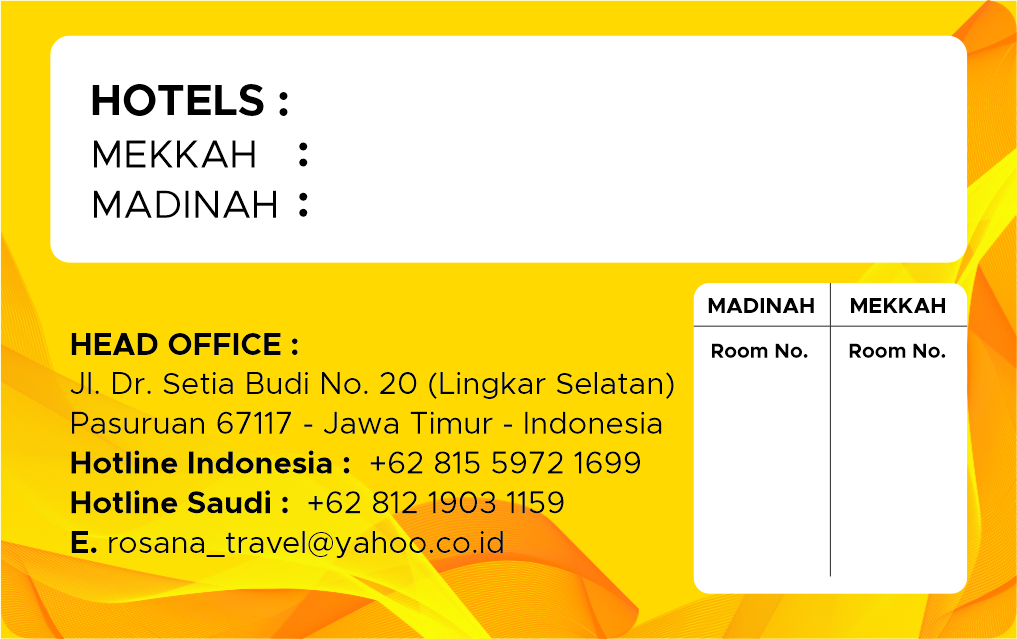
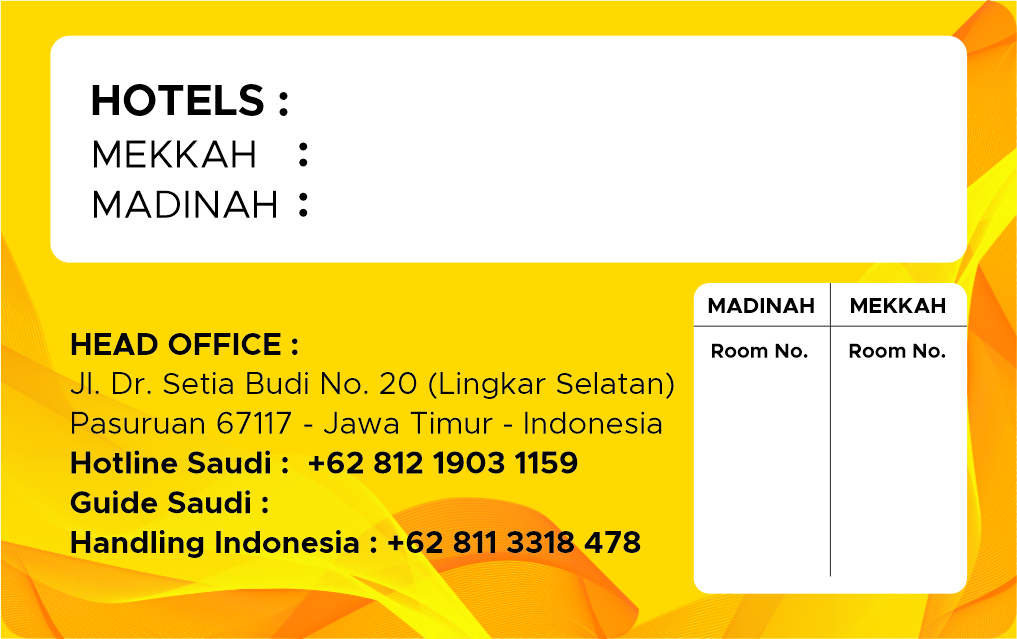
kartu

Changed region(s): [[0.061, 0.6839, 0.6401, 0.8028], [0.061, 0.8326, 0.6401, 0.892]]

diff --git a/application/views/paket/cetak_label_koper.php b/application/views/paket/cetak_label_koper.php
@@ -8,7 +8,6 @@
         align-items: center;
     }
 
-    .nama,
     .paspor,
     .alamat,
     .hotelmadinah,
@@ -19,13 +18,20 @@
     }
 
     .nama {
-        margin-top: -140px;
-        margin-left: 115px;
+        position: absolute;
+        margin-top: -150px;
+        margin-left: 102px;
     }
 
     .paspor {
-        margin-top: -120px;
+        margin-top: -108px;
         margin-left: 115px;
+    }
+
+    .nomorguide {
+        margin-top: -55px;
+        margin-left: 97px;
+        margin-bottom: 38px;
     }
 
     .alamat {
@@ -47,7 +53,7 @@
     }
 
     .foto {
-        margin-top: 80px;
+        margin-top: 70px;
         margin-left: -326px;
         width: 70px;
     }
@@ -65,6 +71,7 @@
 <div class="container-fluid" id="kartudepan">
     <div class="card" id="cardGroup_depan">
         <div class="card-body">
+
             <?php
             // Assuming $label is your array of data
             $numItems = count($label);
@@ -72,8 +79,8 @@
             $itemsPerColumn = 3; // Number of items per column
 
             for ($i = 0; $i < $numItems; $i += $itemsPerRow * $itemsPerColumn) {
-                echo '<div class="container a4-size */bg-dark" id="myTable' . $i . '">';
-                echo '<table style="margin: 0 auto;">';
+                echo '<div class="container a4-size bg-dark" id="myTable' . $i . '">';
+                echo '<table style="margin: 0 auto; table-layout: fixed;">';
 
                 for ($row = 0; $row < $itemsPerColumn; $row++) {
                     echo '<tr>';
@@ -83,15 +90,29 @@
 
                         if ($index < $numItems) {
                             echo '<td>';
-                            echo '<img src="' . base_url('assets/img/labelkoper/depan.jpg') . '" style="width: 350px;">';
-                            echo '<img src="' . (isset($label[$index]['jamaah_img']) ? base_url('assets/images/' . $label[$index]['jamaah_img']) : '') . '" class="foto">';
-                            echo '<h4 class="nama text-dark" style="font-weight:bold;font-size: medium">' . (isset($label[$index]['nama_jamaah']) ? $label[$index]['nama_jamaah'] : '') . '</h4>';
+                            // echo '<img src="' . base_url('assets/img/labelkoper/depan.jpg') . '" style="width: 350px;">';
+                            if ($paket[0]['travel'] == 'Rosana Travel') {
+                                echo '<img src="' . base_url('assets/img/labelkoper/depan.jpg') . '" style="width: 350px;">';
+                            } else {
+                                echo '<img src="' . base_url('assets/img/labelkoper/depannip.jpg') . '" style="width: 350px;">';
+                                # code...
+                            };
+                            echo '<img src="' . (isset($label[$index]['jamaah_img']) ? base_url('assets/images/' . $label[$index]['jamaah_img']) : '') . '" class="foto img-fluid"  style="border-radius: 10px; object-fit: cover; height: 100px; width: 70px">';
+                            echo '<div class="row nama">';
+                            echo '<div class="col-md-10">';
+                            echo '<h4 class="text-dark" style="font-weight:bold;font-size: medium; word-wrap: break-word;width: fit-content;">' . (isset($label[$index]['nama_jamaah']) ? $label[$index]['nama_jamaah'] : '') . '</h4>';
+                            echo '</div>';
+                            echo '</div>';
                             echo '<h5 class="paspor text-dark" style="font-weight:normal;font-size: medium">No. Paspor &nbsp;<strong>' . (isset($label[$index]['nomor_paspor']) ? $label[$index]['nomor_paspor'] : '') . '</strong></h5>';
-                            echo '<p class="alamat text-dark" style="font-weight:normal;font-size: small">Jl. Dr. Setia Budi No. 20 <br>Pasuruan City - Jawa Timur <br>Indonesia</p>';
                             echo '</td>';
                         } else {
                             echo '<td>';
-                            echo '<img src="' . base_url('assets/img/labelkoper/depan.jpg') . '" style="width: 350px;">';
+                            if ($paket[0]['travel'] == 'Rosana Travel') {
+                                echo '<img src="' . base_url('assets/img/labelkoper/depan.jpg') . '" style="width: 350px;">';
+                            } else {
+                                echo '<img src="' . base_url('assets/img/labelkoper/depannip.jpg') . '" style="width: 350px;">';
+                                # code...
+                            };
                             echo '</td>';
                         }
                     }
@@ -104,6 +125,8 @@
                 echo '<button onclick="printToJpg(\'myTable' . $i . '\')">Print to jpg</button>';
             }
             ?>
+
+
         </div>
     </div>
 </div>
@@ -112,32 +135,43 @@
     <div class="card" id="cardGroup_belakang">
         <div class="card-body">
             <?php
-            // Assuming $paket is your array of data for the back side
-            $numItemsBelakang = count($paket);
-            $itemsPerRowBelakang = 3; // Number of items per row for the back side
-            $itemsPerColumnBelakang = 3; // Number of items per column for the back side
+            // Assuming $label is your array of data
+            $numItemsBlkg = count($paket);
+            $itemsPerRowBlkg = 3; // Number of items per row
+            $itemsPerColumnBlkg = 3; // Number of items per column
 
-            for ($i = 0; $i < $numItemsBelakang; $i += $itemsPerRowBelakang * $itemsPerColumnBelakang) {
-                echo '<div class="container a4-size */bg-dark" id="myTableBelakang' . $i . '">';
-                echo '<table style="margin: 0 auto;">';
+            for ($i = 0; $i < $numItemsBlkg; $i += $itemsPerRowBlkg * $itemsPerColumnBlkg) {
+                echo '<div class="container a4-size bg-dark" id="myTableBlkg' . $i . '">';
+                echo '<table style="margin: 0 auto; table-layout: fixed;">';
 
-                for ($row = 0; $row < $itemsPerColumnBelakang; $row++) {
+                for ($row = 0; $row < $itemsPerColumnBlkg; $row++) {
                     echo '<tr>';
 
-                    for ($col = 0; $col < $itemsPerRowBelakang; $col++) {
-                        $indexBelakang = $i + $row * $itemsPerRowBelakang + $col;
+                    for ($col = 0; $col < $itemsPerRowBlkg; $col++) {
+                        $indexBlkg = $i + $row * $itemsPerRowBlkg + $col;
 
-                        if ($indexBelakang < $numItemsBelakang) {
+                        if ($indexBlkg < $numItemsBlkg) {
                             echo '<td>';
-                            echo '<img src="' . base_url('assets/img/labelkoper/belakang.jpg') . '" style="width: 350px;">';
-                            echo '<h4 class="hotelmekkah text-dark" style="font-weight:bold;font-size: medium">' . (isset($paket[$indexBelakang]['hotel_mekkah']) ? $paket[$indexBelakang]['hotel_mekkah'] : '') . '</h4>';
-                            echo '<h4 class="hotelmadinah text-dark" style="font-weight:bold;font-size: medium">' . (isset($paket[$indexBelakang]['hotel_madinah']) ? $paket[$indexBelakang]['hotel_madinah'] : '') . '</h4>';
+                            if ($paket[0]['travel'] == 'Rosana Travel') {
+                                echo '<img src="' . base_url('assets/img/labelkoper/belakang.jpg') . '" style="width: 350px;">';
+                            } else {
+                                echo '<img src="' . base_url('assets/img/labelkoper/belakangnip.jpg') . '" style="width: 350px;">';
+                            };
+                            echo '<h4 class="hotelmekkah text-dark" style="font-weight:bold;font-size: medium">' . ($paket[0]['hotel_mekkah']) . '&nbsp;' . '&#9733;' . ($paket[0]['bintang_mekkah']) . '&nbsp;' .  '</h4>';
+                            echo '<h4 class="hotelmadinah text-dark" style="font-weight:bold;font-size: medium">' . ($paket[0]['hotel_madinah']) . '&nbsp;' . '&#9733;' . ($paket[0]['bintang_madinah']) . '&nbsp;' . '</h4>';
+                            echo '<h5 class="nomorguide text-dark" style="font-weight:normal;font-size: 0.73rem"><strong>' . ($paket[0]['nomor_guide']) . '</strong></h5>';
+
                             echo '</td>';
                         } else {
                             echo '<td>';
-                            echo '<img src="' . base_url('assets/img/labelkoper/belakang.jpg') . '" style="width: 350px;">';
-                            echo '<h4 class="hotelmekkah text-dark" style="font-weight:bold;font-size: medium">' . $paket[0]['hotel_mekkah']  . '</h4>';
-                            echo '<h4 class="hotelmadinah text-dark" style="font-weight:bold;font-size: medium">' . $paket[0]['hotel_madinah'] . '</h4>';
+                            if ($paket[0]['travel'] == 'Rosana Travel') {
+                                echo '<img src="' . base_url('assets/img/labelkoper/belakang.jpg') . '" style="width: 350px;">';
+                            } else {
+                                echo '<img src="' . base_url('assets/img/labelkoper/belakangnip.jpg') . '" style="width: 350px;">';
+                            };
+                            echo '<h4 class="hotelmekkah text-dark" style="font-weight:bold;font-size: medium">' . ($paket[0]['hotel_mekkah']) . '&nbsp;' . '&#9733;' . ($paket[0]['bintang_mekkah']) . '&nbsp;' .  '</h4>';
+                            echo '<h4 class="hotelmadinah text-dark" style="font-weight:bold;font-size: medium">' . ($paket[0]['hotel_madinah']) . '&nbsp;' . '&#9733;' . ($paket[0]['bintang_madinah']) . '&nbsp;' . '</h4>';
+                            echo '<h5 class="nomorguide text-dark" style="font-weight:normal;font-size: 0.73rem"><strong>' . ($paket[0]['nomor_guide']) . '</strong></h5>';
                             echo '</td>';
                         }
                     }
@@ -147,9 +181,11 @@
 
                 echo '</table>';
                 echo '</div>';
-                echo '<button onclick="printToJpg(\'myTableBelakang' . $i . '\')">Print to jpg</button>';
+                echo '<button onclick="printToJpg(\'myTableBlkg' . $i . '\')">Print to jpg</button>';
             }
             ?>
+
+
         </div>
     </div>
 </div>

diff --git a/application/controllers/Paket.php b/application/controllers/Paket.php
@@ -89,6 +89,7 @@ class Paket extends CI_Controller
                     'uang_muka' => $this->input->post('uang_muka'),
                     'matauangall' => $this->input->post('matauangall'),
                     'harga_paket' => $this->input->post('harga_paket'),
+                    'nomor_guide' => $this->input->post('nomor_guide'),
                     'sudah_termasuk' => 'Tiket Pesawat Economy Class • Asuransi perjalanan & Covid-19 (mengcover resiko Covid-19) • Akomodasi Hotel di Mekkah & Medinah(Sesuai Pilihan Paket Umroh) • 2 kali Umrah, 1x city tour di Mekkah & Medinah (kondisional) • Makan prasmanan 3x sehari (Full Board Hotel / Box). • Transportasi Bus AC. • Muthawif / Pembimbing Ibadah.  Catatan : • Membawa Air Zam-Zam (Liquid) per 18 Mei 2022 sudah tidak diijinkan oleh semua Airlines (mengikuti peraturan dari GACA).',
                     'belum_termasuk' => 'Biaya Handling Bandara, Fasilitas Ibadah, Manasik • Biaya PCR di Saudi  • Biaya Pengurusan Paspor (Jika belum punya/sudah tidak berlaku) • Biaya Suntik Meningitis. • Biaya Surat Mahram (Bagi wanita usia dibawah 45 Tahun yang berangkat sendirian) • Biaya Pajak Saudi (municipility 5% & VAT 15%) & Biaya Pajak Indonesia (PPN11%).. Jika sudah diberlakukan • Biaya Tour / Makan / Minum diluar program. • Biaya lain-lain yang bersifat pribadi : Telepon, Laundry, Tips, Kelebihan Bagasi, dll.',
                     'tampilan' => 'Uang Muka',
@@ -157,6 +158,7 @@ class Paket extends CI_Controller
                     'uang_muka' => $this->input->post('uang_muka'),
                     'matauangall' => $this->input->post('matauangall'),
                     'harga_paket' => $this->input->post('harga_paket'),
+                    'nomor_guide' => $this->input->post('nomor_guide'),
                     'sudah_termasuk' => $this->input->post('sudah_termasuk'),
                     'belum_termasuk' => $this->input->post('belum_termasuk'),
                     'tampilan' => $this->input->post('tampilan'),
@@ -195,6 +197,10 @@ class Paket extends CI_Controller
     {
         $data['label'] = $this->Paket_model->get_record_with_this_paket($id_paket);
         $data['paket'] = $this->Paket_model->get_tanggal_keberangkatan_for_detail($id_paket);
+
+        // echo '<pre>';
+        // print_r($data['paket']);
+        // exit();
 
         $data['_view'] = 'paket/cetak_label_koper'; // Change this to the view file for printing labels
         $this->load->view('layouts/main', $data);

diff --git a/application/views/paket/edit.php b/application/views/paket/edit.php
@@ -248,6 +248,13 @@
                                 </div>
                             </div>
                             <hr class="horizontal dark mt-0">
+                            <div class="col-md-4">
+                                <div class="form-group">
+                                    <label class="form-control-label">Nomor Guide</label>
+                                    <input type="text" placeholder="+628115148158" name="nomor_guide" value="<?php echo ($this->input->post('nomor_guide') ? $this->input->post('nomor_guide') : $paket['nomor_guide']); ?>" class="form-control" id="nomor_guide" />
+                                </div>
+                            </div>
+                            <hr class="horizontal dark mt-0">
                             <div class="col-md-6">
                                 <div class="form-group">
                                     <label class="form-control-label">Publikasikan <p class="text-secondary text-xs">(Tampilkan di Website dan Aplikasi)</p></label>

diff --git a/application/views/paket/add.php b/application/views/paket/add.php
@@ -203,6 +203,13 @@
                                 </div>
                             </div>
                             <hr class="horizontal dark mt-0">
+                            <div class="col-md-4">
+                                <div class="form-group">
+                                    <label class="form-control-label">Nomor Guide</label>
+                                    <input type="text" placeholder="+628115484515" name="nomor_guide" value="<?php echo $this->input->post('nomor_guide'); ?>" class="form-control" id="nomor_guide" />
+                                </div>
+                            </div>
+                            <hr class="horizontal dark mt-0">
                             <div class="col-md-6">
                                 <div class="form-group">
                                     <label class="form-control-label">Publikasikan <p class="text-secondary text-xs">(Tampilkan di Website dan Aplikasi)</p></label>

diff --git a/application/models/Paket_model.php b/application/models/Paket_model.php
@@ -87,6 +87,7 @@ class Paket_model extends CI_Model
         $this->db->set('belum_termasuk', $params['belum_termasuk']);
         $this->db->set('paket_img', $gambar);
         $this->db->set('created_by', $params['created_by']);
+        $this->db->set('nomor_guide', $params['nomor_guide']);
         $this->db->set('publish', $params['publish']);
         $this->db->insert('paket');
     }
